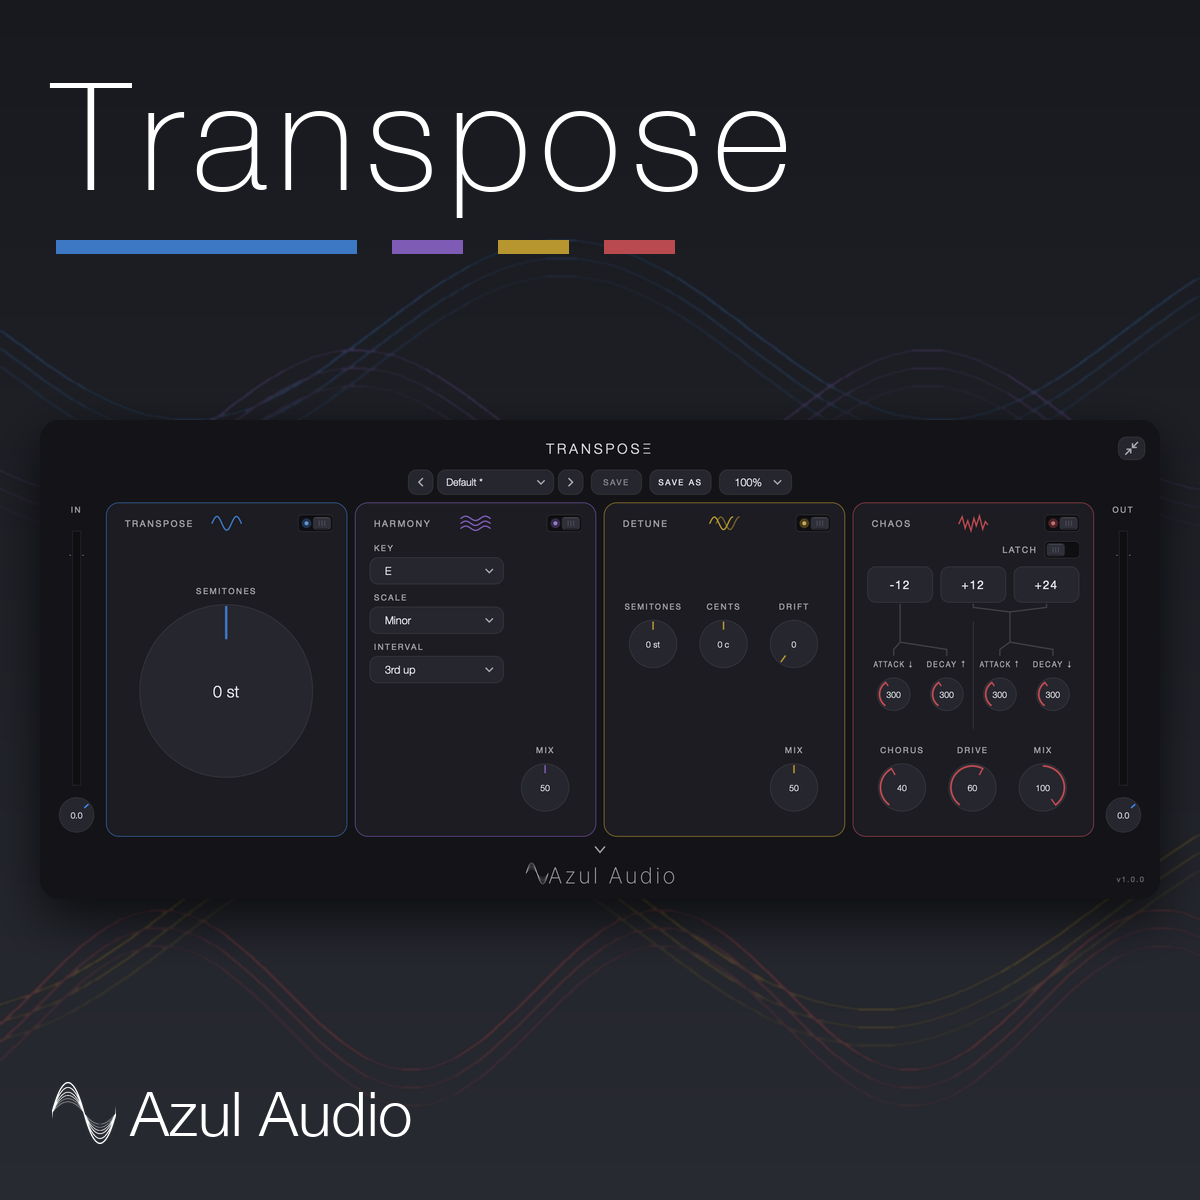
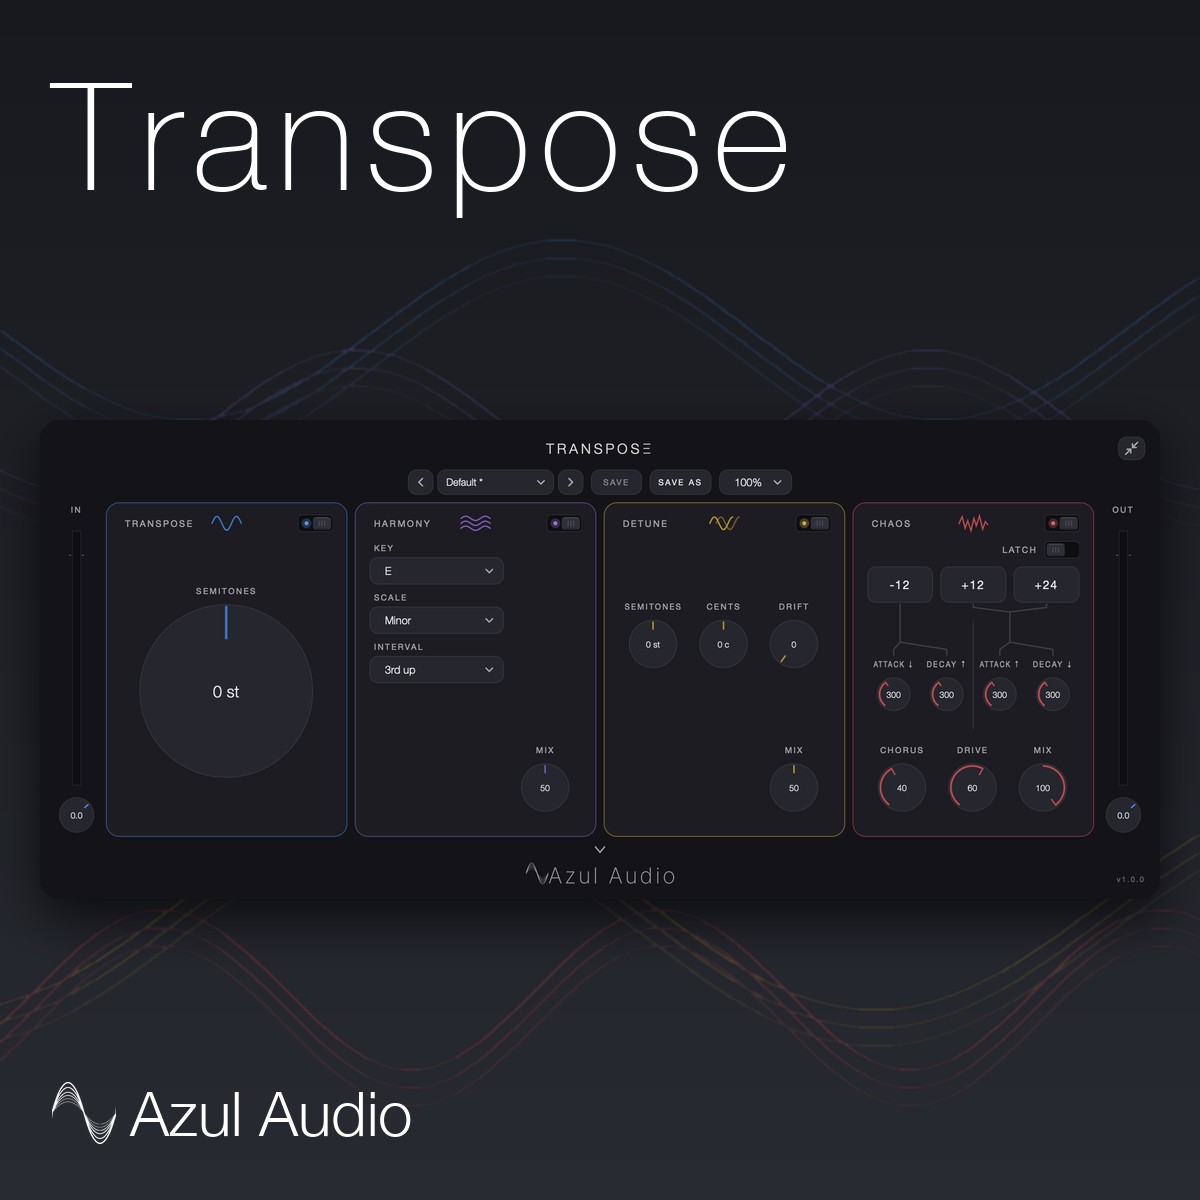
Transpose cover: remove coloured underline

Changed region(s): [[0.0308, 0.185, 0.555, 0.2158]]

diff --git a/index.html b/index.html
@@ -67,7 +67,7 @@
         </article>
 
         <article class="card">
-          <a class="card-img" href="transpose/"><img src="img/transpose-cover.png?v=81ff1872" alt="Transpose cover with the plugin interface"></a>
+          <a class="card-img" href="transpose/"><img src="img/transpose-cover.png?v=e2a1a3ee" alt="Transpose cover with the plugin interface"></a>
           <div class="card-body">
             <h3><a href="transpose/">Transpose</a></h3>
             <span class="tag">Guitar pitch shifter · AU / VST3</span>

diff --git a/transpose/index.html b/transpose/index.html
@@ -38,7 +38,7 @@
 
   <section class="product">
     <div class="gallery">
-      <img src="../img/transpose-cover.png?v=81ff1872" alt="Transpose cover: the plugin with all four effects on">
+      <img src="../img/transpose-cover.png?v=e2a1a3ee" alt="Transpose cover: the plugin with all four effects on">
       <img src="../img/transpose-ui.png?v=51327097" alt="Transpose plugin with all four effects on: Transpose, Harmony, Detune and Chaos">
     </div>
     <div class="summary">

diff --git a/tools/make-transpose-cover.py b/tools/make-transpose-cover.py
@@ -1,6 +1,6 @@
 #!/usr/bin/env python3
 """Build img/transpose-cover.png, the square promo image, in the style of Scatter's cover:
-product name in thin type, a coloured underline, the plugin UI in the middle, Azul Audio mark
+product name in thin type, the plugin UI in the middle, Azul Audio mark
 bottom left. Uses img/transpose-ui.png (UiSnapshot --on, all-notuner) and img/logo-white.png.
 
     python3 tools/make-transpose-cover.py
@@ -46,19 +46,13 @@ def rounded(im, r):
 img = background()
 d = ImageDraw.Draw(img)
 
-# Title + coloured underline (Scatter: one long bar then dashes; here one segment per effect)
+# Title
 title_font = ImageFont.truetype(FONT, 150, index=THIN)
 x0, ty, tracking = 52, 44, 10          # letter-spaced like Scatter's title
 x = x0
 for ch in "Transpose":
     d.text((x, ty), ch, font=title_font, fill=(255, 255, 255))
     x += title_font.getlength(ch) + tracking
-ul_y = ty + 196
-segs = [(BLUE, 300), (PURPLE, 70), (YELLOW, 70), (RED, 70)]
-x = x0 + 4
-for col, width in segs:
-    d.rectangle([x, ul_y, x + width, ul_y + 13], fill=col)
-    x += width + 36
 
 # Plugin UI, centred, rounded, with a soft shadow
 ui = Image.open(ROOT / "img/transpose-ui.png").convert("RGBA")
